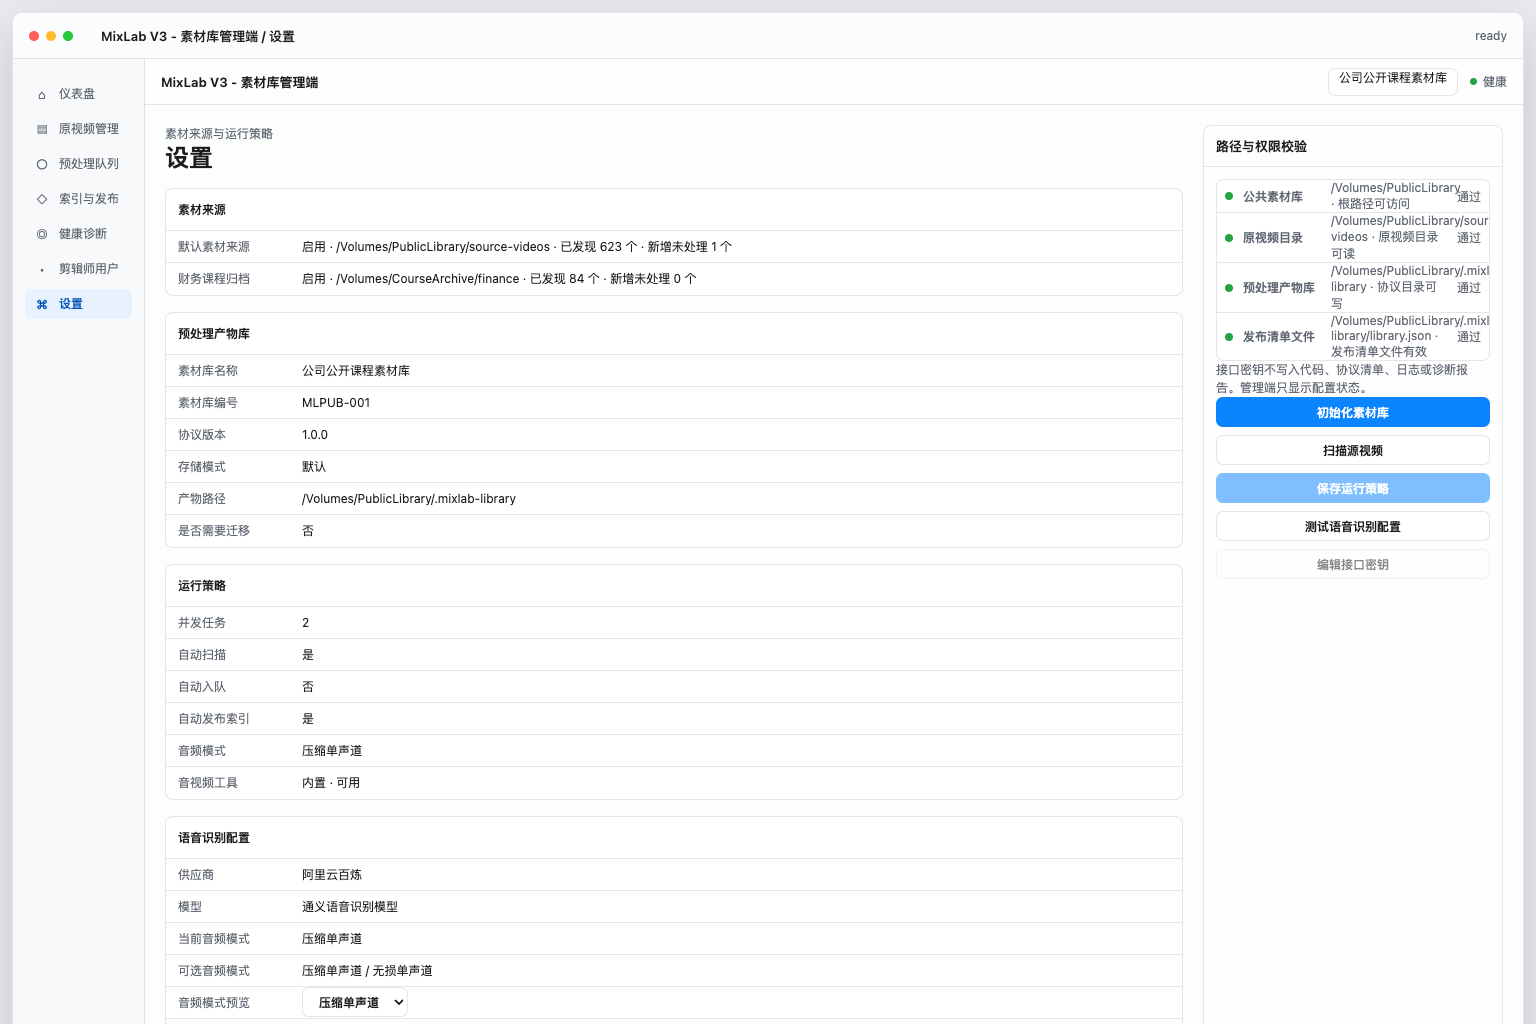
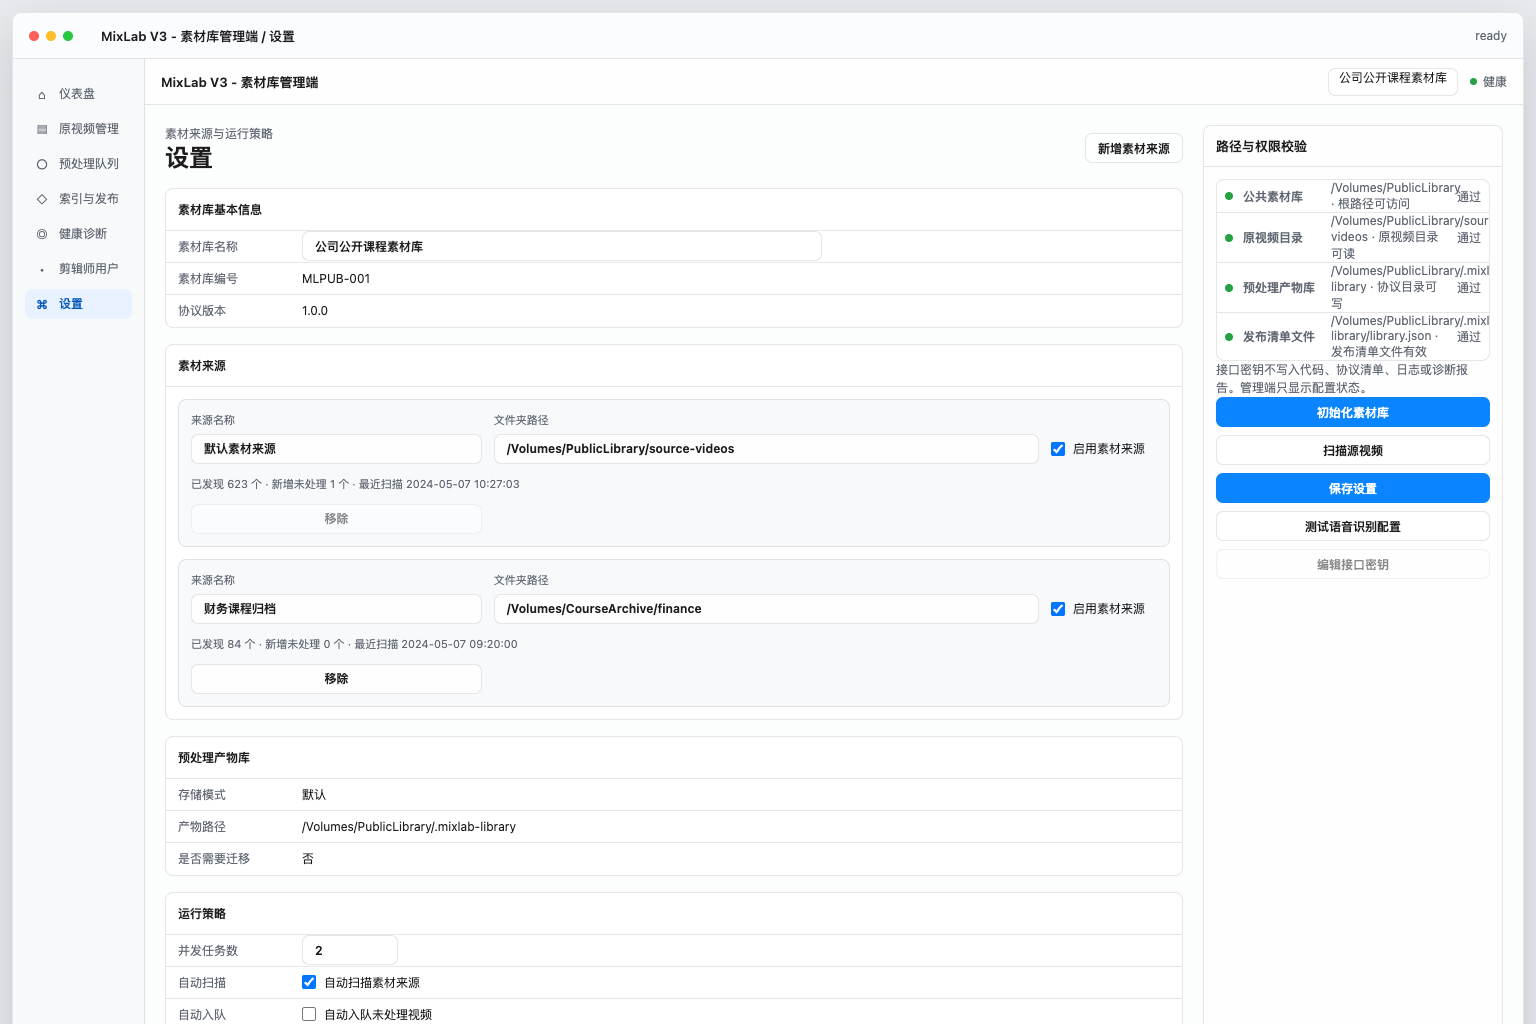
test(admin-web): refresh settings visual check

diff --git a/scripts/visual/check-admin-web-screenshots.ts b/scripts/visual/check-admin-web-screenshots.ts
@@ -62,7 +62,17 @@ async function requireCount(page: Page, selector: string, minCount: number): Pro
 }
 
 async function requireText(page: Page, text: string): Promise<void> {
-  await page.getByText(text, { exact: false }).first().waitFor();
+  const matches = page.getByText(text, { exact: false });
+  const count = await matches.count();
+
+  for (let index = 0; index < count; index += 1) {
+    const candidate = matches.nth(index);
+    if (await candidate.isVisible().catch(() => false)) {
+      return;
+    }
+  }
+
+  await matches.first().waitFor({ state: "visible" });
 }
 
 async function assertNoSecret(page: Page): Promise<void> {